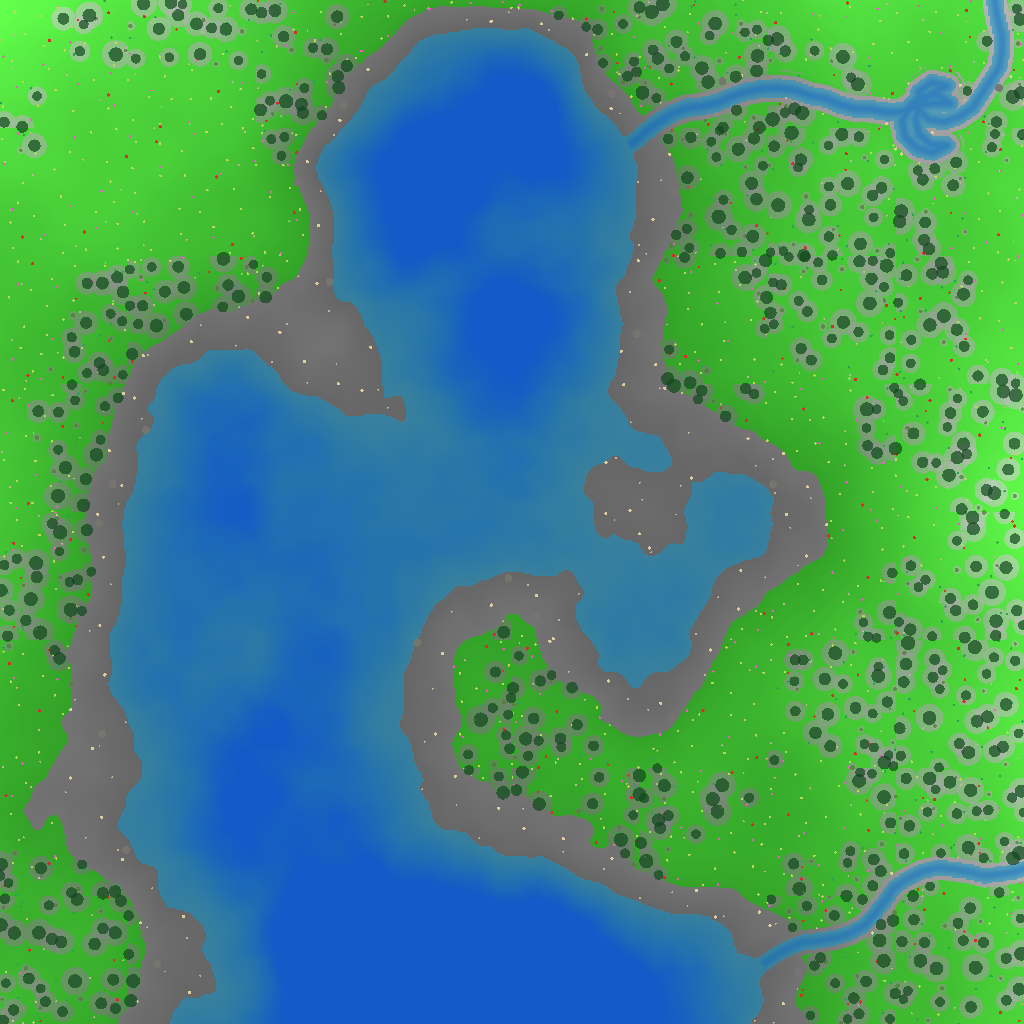
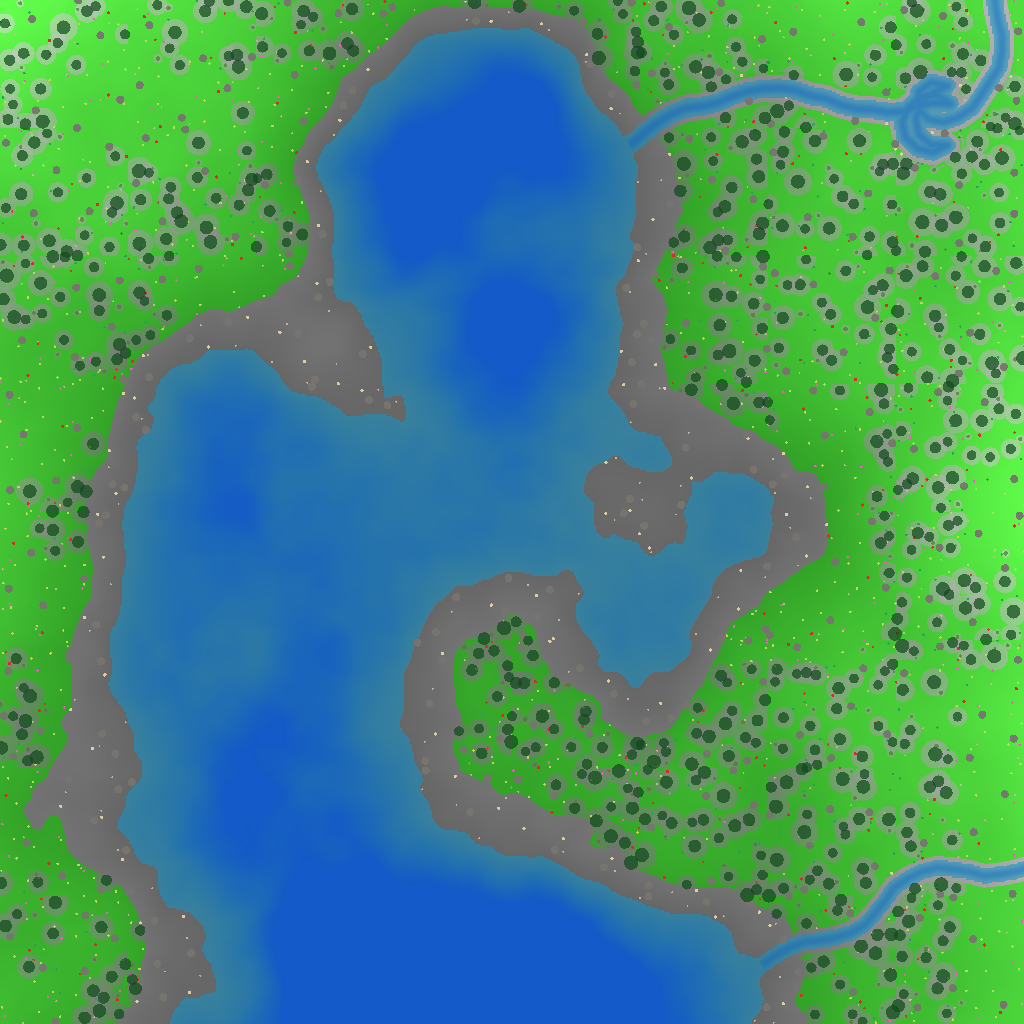
fix(land): rocks where they were; the clump noise decorrelated
Temperate's rocks had fallen from about five a cell to almost none (the
medium ones stood only on slopes of 0.25 and more); ice's and the ocean's
by half and more. Each land's rocks now stand on any dry ground again,
within a quarter of the old scatter's count on all five old lands. The
clumping noise's three channels take seeds hashed apart (they correlated
by -0.25), and a temperate golden pins each row's count.

With rocks back on the meadows, the car's start keeps 6 m clear of
anything with a body and of its cell's edges, so it never begins against
a rock.

Claude-Session: https://claude.ai/code/session_01XGsYtaxaJKXMs35aRejSev

diff --git a/src/lib/land/cell.js b/src/lib/land/cell.js
@@ -201,16 +201,19 @@ export function makeCell(spec, cx, cz, { shade = true } = {}) {
   return cell;
 }
 
-// the props: each row of the land's flora by its own seeded Poisson disc (a
-// sub-stream a row, every draw made before any test, so an edited row
-// reshuffles no other), moved by his clumping and thinned to woods and
-// glades (pure functions of the world point, so neighbours clump alike),
-// kept where the mask, the slope and the water allow; then the crowns'
-// shade painted into the grass
+// the props: each row of the land's flora by its own seeded Poisson disc,
+// moved by his clumping and thinned to woods and glades (pure functions of
+// the world point, so neighbours clump alike), kept where the mask, the
+// slope and the water allow; then the crowns' shade painted into the grass.
+// A row draws from its own sub-stream, every draw made before any test, so
+// an edited row changes no other row's draws; but which of them stand still
+// hangs on the rows placed before it (ROOM keeps each off theirs)
 function scatter(spec, cell, rivers, x0, z0, shade) {
   const out = [];
   const crowns = [];
   const base = mix(spec.seed, cell.cx, cell.cz);
+  // (the noise's three channels, seeded well apart: the push across, the push down, the thinning)
+  const [pushX, pushZ, thin] = [7001, 7002, 7003].map((k) => mix(spec.seed, k, 0));
   const s = { level: NaN, flow: null, near: Infinity };
   const slopeAt = (lx, lz) =>
     Math.hypot(heightAt(cell, lx + TEXEL, lz) - heightAt(cell, lx - TEXEL, lz), heightAt(cell, lx, lz + TEXEL) - heightAt(cell, lx, lz - TEXEL)) / (2 * TEXEL);
@@ -237,13 +240,13 @@ function scatter(spec, cell, rivers, x0, z0, shade) {
         if (f.clump) {
           const wx = (x0 + lx) * SPREAD;
           const wz = (z0 + lz) * SPREAD;
-          lx += noise2(wx, wz, spec.seed + 7001) * f.clump;
-          lz += noise2(wx, wz, spec.seed + 7002) * f.clump;
+          lx += noise2(wx, wz, pushX) * f.clump;
+          lz += noise2(wx, wz, pushZ) * f.clump;
         }
         if (!(lx >= 0 && lx < CELL && lz >= 0 && lz < CELL)) continue;
         const x = x0 + lx;
         const z = z0 + lz;
-        if (f.clump && keep > smoothstep(THIN[0], THIN[1], (MEADOW.has(f.kind) ? -1 : 1) * noise2(x * SPREAD, z * SPREAD, spec.seed + 7003))) continue;
+        if (f.clump && keep > smoothstep(THIN[0], THIN[1], (MEADOW.has(f.kind) ? -1 : 1) * noise2(x * SPREAD, z * SPREAD, thin))) continue;
         if (mine.some((p) => Math.hypot(p.x - x, p.z - z) < spacing)) continue;
         if (out.some((p) => Math.hypot(p.x - x, p.z - z) < room + (ROOM[p.kind] ?? 0))) continue;
         const k = (Math.min(MASK - 1, Math.floor(lz / TEXEL)) * MASK + Math.min(MASK - 1, Math.floor(lx / TEXEL))) * 4;

diff --git a/src/components/expanse/surface/rules.js b/src/components/expanse/surface/rules.js
@@ -8,8 +8,10 @@
 // surface the car is damped as his bodies are in water (1).
 //
 //   spawnIn(cell) → { x, y, z, yaw, slope } (world metres: the highest dry
-//     vertex with a slope under 0.15, else the highest dry one, a metre and
-//     a half above it)
+//     vertex with a slope under 0.15 standing CLEAR of every prop with a
+//     body and of the cell's edges (a neighbour's props stand past them,
+//     unseen), else the highest such vertex however near, else the highest
+//     dry one; a metre and a half above it)
 //   createDriver() → state
 //   stepDriver(state, vehicleState, input: { respawn }, dt, { position:
 //     [x, y, z], waterAt(x, z) → { level, kind: 'sea' | 'lake' | 'river' } |
@@ -19,9 +21,12 @@
 //     a world bearing (radians from +x toward +z), for the chase view's
 //     fixed look along −x −z (the HUD's compass)
 
+import { KINDS } from '../../../lib/physics/props.js';
+
 const CELL = 64;
 const N = 65;
 const GENTLE = 0.15;
+const CLEAR = 6; // metres from a rock, a tree or a crate, so the car starts free to drive
 const LIFT = 1.5;
 export const DROWN = 4; // seconds under before it's brought back
 export const RESPAWN_BACK = 3; // seconds back the place it comes back to
@@ -32,6 +37,10 @@ const WET = 0.6; // the water this far below the chassis's middle: its wheels ar
 export function spawnIn(cell) {
   const h = cell.heights;
   const at = (ix, iz) => h[Math.min(N - 1, Math.max(0, iz)) * N + Math.min(N - 1, Math.max(0, ix))];
+  const solid = (cell.props ?? []).filter((p) => KINDS[p.kind]).map((p) => [p.x - cell.cx * CELL, p.z - cell.cz * CELL]);
+  const clear = (ix, iz) =>
+    ix >= CLEAR && ix <= CELL - CLEAR && iz >= CLEAR && iz <= CELL - CLEAR && solid.every(([x, z]) => Math.hypot(x - ix, z - iz) >= CLEAR);
+  let free = null;
   let gentle = null;
   let any = null;
   for (let iz = 0; iz < N; iz++)
@@ -41,9 +50,11 @@ export function spawnIn(cell) {
       const y = h[k];
       const slope = Math.hypot(at(ix + 1, iz) - at(ix - 1, iz), at(ix, iz + 1) - at(ix, iz - 1)) / 2;
       if (!any || y > any.y) any = { ix, iz, y, slope };
-      if (slope < GENTLE && (!gentle || y > gentle.y)) gentle = { ix, iz, y, slope };
+      if (slope >= GENTLE) continue;
+      if (!gentle || y > gentle.y) gentle = { ix, iz, y, slope };
+      if ((!free || y > free.y) && clear(ix, iz)) free = { ix, iz, y, slope };
     }
-  const best = gentle ?? any ?? { ix: 32, iz: 32, y: at(32, 32), slope: 0 };
+  const best = free ?? gentle ?? any ?? { ix: 32, iz: 32, y: at(32, 32), slope: 0 };
   return { x: cell.cx * CELL + best.ix, y: best.y + LIFT, z: cell.cz * CELL + best.iz, yaw: 0, slope: best.slope };
 }
 

diff --git a/src/components/expanse/surface/rules.test.js b/src/components/expanse/surface/rules.test.js
@@ -25,6 +25,27 @@ describe('spawnIn', () => {
     expect(s.slope).toBeLessThan(0.15 + 1e-9);
   });
 
+  it('stands clear of every prop with a body, and of the edges a neighbour’s could stand by', () => {
+    // a rising cell, a rock where it would stand (the highest point 6 m in), a tuft beside
+    const c = flatCell();
+    for (let iz = 0; iz < N; iz++) for (let ix = 0; ix < N; ix++) c.heights[iz * N + ix] = 3 + ix * 0.01;
+    c.props = [{ kind: 'rock', x: 2 * CELL + 58, y: 3.6, z: -CELL + 6, scale: 1 }, { kind: 'grass', x: 2 * CELL + 58, y: 3.6, z: -CELL + 13, scale: 1 }];
+    const s = spawnIn(c);
+    expect(Math.hypot(s.x - c.props[0].x, s.z - c.props[0].z)).toBeGreaterThanOrEqual(6);
+    // (the tuft has no body: it may stand by it)
+    expect([s.x, s.z]).toEqual([2 * CELL + 58, -CELL + 12]);
+    // and on a planet's cell, clear of all its trees, rocks and crates, and of its edges
+    for (const [seed, cx, cz] of [[7, 0, 0], ['seven', 0, 0], [3, 0, 0]]) {
+      const cell = makeCell(landSpec(seed), cx, cz);
+      const at = spawnIn(cell);
+      for (const p of cell.props) if (['tree', 'rock', 'crate'].includes(p.kind)) expect(Math.hypot(at.x - p.x, at.z - p.z)).toBeGreaterThanOrEqual(6);
+      for (const v of [at.x - cx * CELL, at.z - cz * CELL]) {
+        expect(v).toBeGreaterThanOrEqual(6);
+        expect(v).toBeLessThanOrEqual(CELL - 6);
+      }
+    }
+  });
+
   it('settles for the highest dry point on a cell all steep', () => {
     const c = flatCell();
     for (let iz = 0; iz < N; iz++) for (let ix = 0; ix < N; ix++) c.heights[iz * N + ix] = ix * 0.5;

diff --git a/src/lib/land/flora.js b/src/lib/land/flora.js
@@ -74,12 +74,12 @@ const TYPES = {
   temperate: {
     count: [36, 60],
     species: [
-      row('tree', COMMON, 0.34),
-      row('tree', PINE, 0.22),
+      row('tree', COMMON, 0.3),
+      row('tree', PINE, 0.2),
       row('tree', GIANT, 0.06),
       row('tree', BIRCH, 0.06),
-      row('bush', BUSHES, 0.2),
-      row('rock', ROCKS, 0.08, { on: 'any', slope: STEEP, clump: 0 }),
+      row('bush', BUSHES, 0.18),
+      row('rock', ROCKS, 0.16, { on: 'any', slope: ANY, clump: 0 }),
       row('rock', BIG_ROCKS, 0.04, { on: 'bank', slope: ANY, clump: 0 }),
     ],
     cover: [
@@ -109,7 +109,7 @@ const TYPES = {
     species: [
       row('tree', PINE, 0.35),
       row('tree', GIANT, 0.15),
-      row('rock', ROCKS, 0.3, { on: 'any', slope: STEEP, clump: 0 }),
+      row('rock', ROCKS, 0.3, { on: 'any', slope: ANY, clump: 0 }),
       row('rock', BIG_ROCKS, 0.2, { on: 'any', slope: ANY, clump: 0 }),
     ],
     cover: [
@@ -120,9 +120,10 @@ const TYPES = {
   ocean: {
     count: [20, 30],
     species: [
-      row('tree', COMMON, 0.45),
+      row('tree', COMMON, 0.4),
       row('bush', BUSHES, 0.3),
-      row('rock', ROCKS, 0.25, { on: 'bank', slope: ANY, clump: 0 }),
+      row('rock', ROCKS, 0.2, { on: 'any', slope: ANY, clump: 0 }),
+      row('rock', BIG_ROCKS, 0.1, { on: 'bank', slope: ANY, clump: 0 }),
     ],
     cover: [
       row('pebble', [...ROUND_PEBBLES, ...SQUARE_PEBBLES], 0.5, { on: 'bank', slope: ANY, clump: 0 }),

diff --git a/src/lib/land/flora.test.js b/src/lib/land/flora.test.js
@@ -72,6 +72,30 @@ describe('floraFor', () => {
     }
   });
 
+  it('gives temperate the counts it was tuned to (rocks near the old scatter’s five a cell)', () => {
+    const golden = (list) => list.map((r) => [r.kind, r.names[0] ?? null, r.on, r.perCell]);
+    const f = floraFor('temperate');
+    expect(golden(f.species)).toEqual([
+      ['tree', 'CommonTree_1', 'grass', 11],
+      ['tree', 'Pine_1', 'grass', 7],
+      ['tree', 'GiantPine_1', 'grass', 2],
+      ['tree', 'Birch_1', 'grass', 2],
+      ['bush', 'Bush_Large', 'grass', 6],
+      ['rock', 'Rock_Medium_1', 'any', 6],
+      ['rock', 'Rock_Big_1', 'bank', 1],
+      ['crate', null, 'grass', 3],
+    ]);
+    expect(golden(f.cover)).toEqual([
+      ['grass', 'Grass_Common_Short', 'grass', 22],
+      ['plant', 'Fern_1', 'grass', 7],
+      ['plant', 'Clover_1', 'grass', 5],
+      ['flower', 'Flower_1_Group', 'grass', 8],
+      ['mushroom', 'Mushroom_Common', 'grass', 4],
+      ['pebble', 'Pebble_Round_1', 'any', 8],
+      ['path', 'RockPath_Round_Small_1', 'bank', 6],
+    ]);
+  });
+
   it('is a fresh table each time, and temperate for a type it doesn’t know', () => {
     const a = floraFor('temperate');
     a.species[0].names.push('Nothing');

diff --git a/src/lib/land/cell.test.js b/src/lib/land/cell.test.js
@@ -52,13 +52,15 @@ describe('the cell', () => {
         });
         if (!crosses) continue;
         done = true;
-        // (16 first: 15 is then made from the regions 16's list left cached)
+        // (16 first, then 15: 15 reads the regions 16 and the scan above left cached)
         const b = makeCell(s, 16, cz);
         const a = makeCell(s, 15, cz);
+        expect(a.props.length).toBeGreaterThan(0);
         expect(bytes(new Float32Array(col(a.heights, 64)))).toEqual(bytes(new Float32Array(col(b.heights, 0))));
         expect(bytes(new Float32Array(col(a.water, 64)))).toEqual(bytes(new Float32Array(col(b.water, 0))));
         expect(col(a.water, 64).some((w) => !Number.isNaN(w))).toBe(true);
-        // and 15 from its own list, the cache emptied of both (four far 3 × 3s: 36 regions past its 32)
+        // and 15 again, cold: four far 3 × 3 lookups put 33 new regions into the
+        // cache of 32 after every one 15 reads, so its own are traced afresh
         for (let k = 1; k <= 4; k++) riversNear(s, 15 + k * 48, cz);
         const fresh = makeCell(s, 15, cz);
         expect(bytes(fresh.heights)).toEqual(bytes(a.heights));
